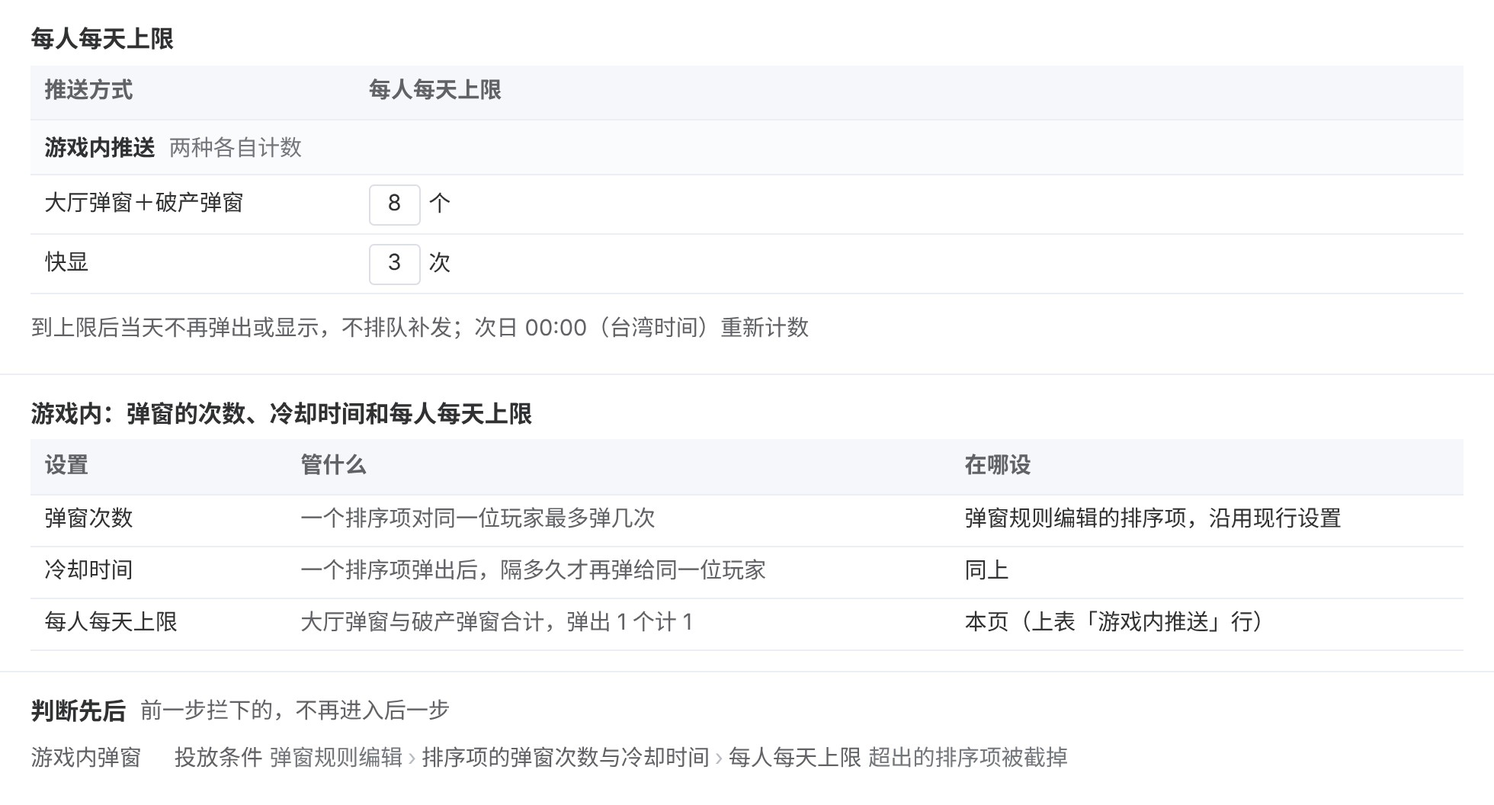
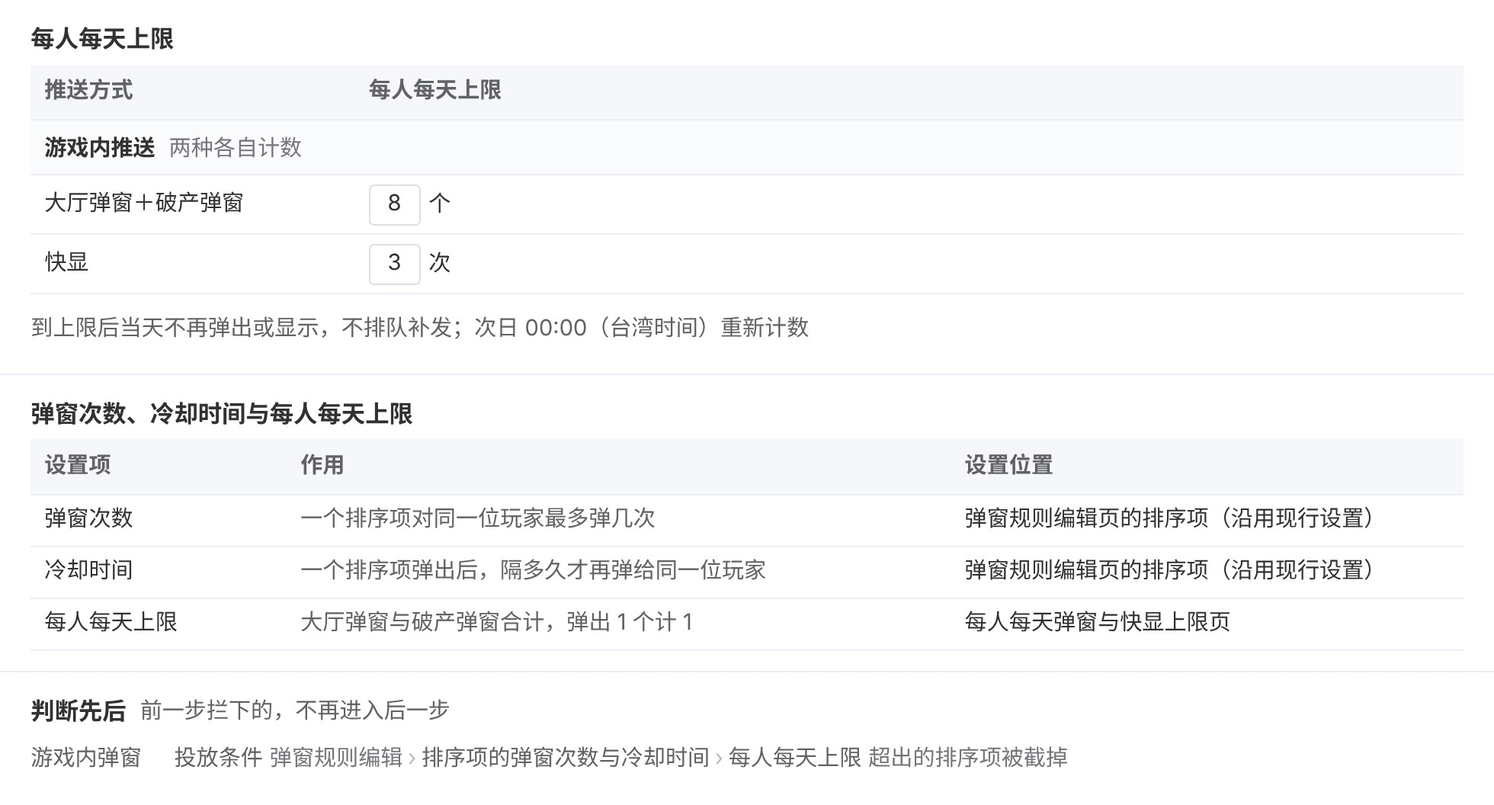
需求评审版审读后修改进行中：截图措辞与编号
Claude-Session: https://claude.ai/code/session_01JtVy4xu4oTwDzwihYuUW45

diff --git a/弹窗标签推送系统/推送系统后台集成需求/需求评审版源.html b/弹窗标签推送系统/推送系统后台集成需求/需求评审版源.html
@@ -77,12 +77,12 @@ table.et td:nth-child(1){white-space:nowrap}
   <div class="grp g1">第一部分　游戏外推送<span>第 1–4 页</span></div>
   <a href="#p1">1 按玩家分群推送</a>
   <a href="#p2">2 按玩家行为自动推送</a>
-  <a href="#p3">3 每人每天上限与勿扰</a>
-  <a href="#p4">4 短信</a>
+  <a href="#p3">3 短信</a>
+  <a href="#p4">4 每人每天上限与勿扰</a>
   <div class="grp g2">第二部分　游戏内推送<span>第 5–7 页</span></div>
   <a href="#p5">5 按玩家分群配置弹窗</a>
-  <a href="#p6">6 每人每天弹窗与快显上限</a>
-  <a href="#p7">7 快显</a>
+  <a href="#p6">6 快显</a>
+  <a href="#p7">7 每人每天弹窗与快显上限</a>
   <div class="grp g3">第三部分　数据<span>第 8–11 页</span></div>
   <a href="#p8">8 数据概览</a>
   <a href="#p9">9 数据明细</a>
@@ -136,7 +136,7 @@ table.et td:nth-child(1){white-space:nowrap}
     <tr><td>选多个群组时取并集：满足任一即发送，重叠的玩家只收 1 条。</td></tr>
     <tr><td>排除群组：<br>固定排除，不能移出：黑名单、机器人与测试账号、敏感状态账号（停权、自我限制、注销处理中）<br>默认排除，运营可移出：VIP 名单<br>运营还可再加其他群组</td></tr>
     <tr><td>能收到推送的玩家：<br>推播：装了 App 且开启通知的玩家<br>短信：有有效手机号且未退订的玩家<br>同一设备或同一手机号只发 1 条</td></tr>
-    <tr><td>预计发出：群组人数扣掉排除群组得到受众，再依次扣掉收不到推送的玩家和被每人每天上限拦下的人（上限见第 3 页）；确认前逐层显示。</td></tr>
+    <tr><td>预计发出：群组人数扣掉排除群组得到受众，再扣掉收不到推送的玩家；立即发送时再扣掉此刻已收满每人每天上限的人（上限见第 4 页），定时发送不预估这一项，到发送时按当时扣除；确认前逐层显示。</td></tr>
   </table>
   <h4 class="rg">发送时间</h4>
   <table class="rule">
@@ -145,7 +145,8 @@ table.et td:nth-child(1){white-space:nowrap}
   </table>
   <h4 class="rg">所属活动</h4>
   <table class="rule">
-    <tr><td>推播、短信、快显和弹窗规则新建时都要选所属活动，或选「不属于活动」；所属活动和点击跳转的页面从后台现有的活动、礼包里选。</td></tr>
+    <tr><td>推播、短信、快显新建时选所属活动，或选「不属于活动」；所属活动和点击跳转的页面从后台现有的活动、礼包里选。</td></tr>
+    <tr><td>弹窗规则不选所属活动，规则里的每个排序项对应一个活动或礼包，同样从现有的活动、礼包里选（见第 5 页）。</td></tr>
   </table>
   <h4 class="rg">防错</h4>
   <table class="rule">
@@ -187,7 +188,7 @@ table.et td:nth-child(1){white-space:nowrap}
     <tr><td>顺延的提醒到勿扰结束时，重新判断触发条件和每人每天上限。<span class="why">按行为的提醒到勿扰结束时可能已失效，如礼包已过期。</span></td></tr>
     <tr><td>玩家在线时照发或不发，每条推送单独选。</td></tr>
     <tr><td>默认玩家升级、完成任务、通行证升级不发，限时加码礼包快到期、时间偏移照发；破产后未回到游戏只在玩家离线时触发。</td></tr>
-    <tr><td>触发时玩家在线且选了不发的，这次收不到推播；同一事件改由游戏内显示，用同一触发行为的快显，或同一活动的弹窗规则；两者都没有时，系统在保存时提示运营。</td></tr>
+    <tr><td>选了在线不发的，触发时在线的玩家这次收不到推播；需要在游戏里提示的，运营另配同一触发行为的快显（第 6 页）。</td></tr>
   </table>
     </div>
   </details>
@@ -196,10 +197,39 @@ table.et td:nth-child(1){white-space:nowrap}
 <!-- 3 -->
 <section class="pg pt1" id="p3">
   <div class="kick"><span class="pchip">第一部分　游戏外推送</span><span class="pos">第 3 页 / 共 13 页</span></div>
+  <h2>短信</h2>
+
+  <div class="shots">
+    <figure><img src="需求评审版_图/16_短信.jpg" alt="新建短信" style="width:980px"><figcaption>新建短信：内文与则数、发送对象、确认前的预计人数与则数</figcaption></figure>
+  </div>
+
+  <details class="rules">
+    <summary><span class="rt">业务规则</span><span class="rgs">内容与计费 · 发送</span></summary>
+    <div class="rbody">
+  <h4 class="rg">内容与计费</h4>
+  <table class="rule">
+    <tr><td>内文先选消息类别（营销或服务通知）；输入时显示字数与则数，超出一则时提示；营销短信自动加品牌前缀【會員通知】和退订说明。</td></tr>
+    <tr><td>链接可选外部网页或游戏内页面；外部网页自动换成短链，统计点击次数。</td></tr>
+    <tr><td>按则计费：70 字以内计 1 则；超过 70 字时每 67 字计 1 则。</td></tr>
+    <tr><td>品牌前缀和退订说明计入字数。</td></tr>
+  </table>
+  <h4 class="rg">发送</h4>
+  <table class="rule">
+    <tr><td>发送对象、排除群组的选法同推播（第 1 页）；能收到短信的是有有效手机号且未退订的玩家。</td></tr>
+    <tr><td>发送时间：立即、定时或按行为，填法同推播；勿扰时段与每人每天上限见第 4 页。</td></tr>
+    <tr><td>确认前显示能收到短信的人数、预计发出人数（上限拦下的算法同推播，见第 1 页）、每条计几则和共计几则。</td></tr>
+  </table>
+    </div>
+  </details>
+</section>
+
+<!-- 4 -->
+<section class="pg pt1" id="p4">
+  <div class="kick"><span class="pchip">第一部分　游戏外推送</span><span class="pos">第 4 页 / 共 13 页</span></div>
   <h2>每人每天上限与勿扰</h2>
 
   <div class="shots">
-    <figure><img src="需求评审版_图/04_上限勿扰.jpg" alt="每人每天上限与勿扰设置" style="width:980px"><figcaption>每人每天上限与勿扰设置页</figcaption></figure>
+    <figure><img src="需求评审版_图/04_上限勿扰.jpg" alt="每人每天上限与勿扰设置" style="width:980px"><figcaption>消息类别、推播与短信的每人每天上限、勿扰时段的设置</figcaption></figure>
   </div>
 
   <details class="rules">
@@ -222,35 +252,6 @@ table.et td:nth-child(1){white-space:nowrap}
   <table class="rule">
     <tr><td>单条推送可勾选「不受每人每天上限」或「不受勿扰」，须填原因。</td></tr>
     <tr><td>运营把含促销字样（禮包、優惠、加碼、儲值）的内容发为服务通知时，须填写归为服务通知的原因。</td></tr>
-  </table>
-    </div>
-  </details>
-</section>
-
-<!-- 4 -->
-<section class="pg pt1" id="p4">
-  <div class="kick"><span class="pchip">第一部分　游戏外推送</span><span class="pos">第 4 页 / 共 13 页</span></div>
-  <h2>短信</h2>
-
-  <div class="shots">
-    <figure><img src="需求评审版_图/16_短信.jpg" alt="新建短信" style="width:980px"><figcaption>新建短信</figcaption></figure>
-  </div>
-
-  <details class="rules">
-    <summary><span class="rt">业务规则</span><span class="rgs">内容与计费 · 发送</span></summary>
-    <div class="rbody">
-  <h4 class="rg">内容与计费</h4>
-  <table class="rule">
-    <tr><td>内文先选消息类别（营销或服务通知）；输入时显示字数与则数，超出一则时提示；营销短信自动加品牌前缀【會員通知】和退订说明。</td></tr>
-    <tr><td>链接可选外部网页或游戏内页面；外部网页自动换成短链，统计点击次数。</td></tr>
-    <tr><td>按则计费：70 字以内计 1 则；超过 70 字时每 67 字计 1 则。</td></tr>
-    <tr><td>品牌前缀和退订说明计入字数。</td></tr>
-  </table>
-  <h4 class="rg">发送</h4>
-  <table class="rule">
-    <tr><td>发送对象、排除群组的选法同推播（第 1 页）；能收到短信的是有有效手机号且未退订的玩家。</td></tr>
-    <tr><td>发送时间：立即、定时或按行为，填法同推播；勿扰时段与每人每天上限见第 3 页。</td></tr>
-    <tr><td>确认前显示能收到短信的人数、上限拦下、预计发出人数、每条计几则和共计几则。</td></tr>
   </table>
     </div>
   </details>
@@ -316,10 +317,36 @@ table.et td:nth-child(1){white-space:nowrap}
 <!-- 6 -->
 <section class="pg pt2" id="p6">
   <div class="kick"><span class="pchip">第二部分　游戏内推送</span><span class="pos">第 6 页 / 共 13 页</span></div>
+  <h2>快显</h2>
+
+  <div class="shots">
+    <figure><img src="需求评审版_图/17_快显.jpg" alt="新建快显" style="width:980px"><figcaption>新建快显：横幅内容、发送对象、按行为发送</figcaption></figure>
+  </div>
+
+  <details class="rules">
+    <summary><span class="rt">业务规则</span><span class="rgs">内容与对象 · 发送时间</span></summary>
+    <div class="rbody">
+  <h4 class="rg">内容与对象</h4>
+  <table class="rule">
+    <tr><td>快显是游戏界面里的即时横幅，如通行证升级提示；可设横幅文字、显示位置、停留秒数、点击跳转的页面。</td></tr>
+    <tr><td>发送对象和排除群组的选法同推播（第 1 页），VIP 名单同样默认排除、可移出。</td></tr>
+    <tr><td>只显示给在线玩家：发送时不在线的玩家收不到，上线后也不补显。</td></tr>
+  </table>
+  <h4 class="rg">发送时间</h4>
+  <table class="rule">
+    <tr><td>立即、定时或按行为；按行为的触发行为与提醒间隔同第 2 页。</td></tr>
+  </table>
+    </div>
+  </details>
+</section>
+
+<!-- 7 -->
+<section class="pg pt2" id="p7">
+  <div class="kick"><span class="pchip">第二部分　游戏内推送</span><span class="pos">第 7 页 / 共 13 页</span></div>
   <h2>每人每天弹窗与快显上限</h2>
 
   <div class="shots">
-    <figure><img src="需求评审版_图/12_弹窗上限.jpg" alt="每人每天弹窗与快显上限设置" style="width:980px"><figcaption>每人每天弹窗与快显上限设置页</figcaption></figure>
+    <figure><img src="需求评审版_图/12_弹窗上限.jpg" alt="每人每天弹窗与快显上限设置" style="width:980px"><figcaption>弹窗、快显各自的上限，以及弹窗次数、冷却时间与上限的判断顺序</figcaption></figure>
   </div>
 
   <details class="rules">
@@ -338,32 +365,6 @@ table.et td:nth-child(1){white-space:nowrap}
   <h4 class="rg">例外</h4>
   <table class="rule">
     <tr><td>排序项可勾选「不受每人每天弹窗上限」，再选仍计入或不计入当天个数，并填原因。</td></tr>
-  </table>
-    </div>
-  </details>
-</section>
-
-<!-- 7 -->
-<section class="pg pt2" id="p7">
-  <div class="kick"><span class="pchip">第二部分　游戏内推送</span><span class="pos">第 7 页 / 共 13 页</span></div>
-  <h2>快显</h2>
-
-  <div class="shots">
-    <figure><img src="需求评审版_图/17_快显.jpg" alt="新建快显" style="width:980px"><figcaption>新建快显</figcaption></figure>
-  </div>
-
-  <details class="rules">
-    <summary><span class="rt">业务规则</span><span class="rgs">内容与对象 · 发送时间</span></summary>
-    <div class="rbody">
-  <h4 class="rg">内容与对象</h4>
-  <table class="rule">
-    <tr><td>快显是游戏界面里的即时横幅，如通行证升级提示；可设横幅文字、显示位置、停留秒数、点击跳转的页面。</td></tr>
-    <tr><td>发送对象和排除群组的选法同推播（第 1 页），VIP 名单同样默认排除、可移出。</td></tr>
-    <tr><td>只显示给在线玩家：发送时不在线的玩家收不到，上线后也不补显。</td></tr>
-  </table>
-  <h4 class="rg">发送时间</h4>
-  <table class="rule">
-    <tr><td>立即、定时或按行为；按行为的触发行为与提醒间隔同第 2 页。</td></tr>
   </table>
     </div>
   </details>

diff --git a/弹窗标签推送系统/推送系统后台集成需求/需求评审版_原型/11_保存确认.html b/弹窗标签推送系统/推送系统后台集成需求/需求评审版_原型/11_保存确认.html
@@ -12,6 +12,7 @@ body{font-family:"Inter","Noto Sans CJK SC","PingFang SC","Microsoft YaHei",sans
 .shot .win{padding:0;border:0;border-radius:0;background:#fff;box-shadow:none}
 .shot .fig{width:auto;border:0;border-radius:0}
 .tc{font-family:"Inter","Noto Sans CJK TC","PingFang TC",sans-serif}
+.sub2{display:block;font-size:12px;color:#73767A;line-height:17px}
 </style>
 </head>
 <body>
@@ -19,24 +20,24 @@ body{font-family:"Inter","Noto Sans CJK SC","PingFang SC","Microsoft YaHei",sans
   <div class="sec" style="padding:14px 18px 18px">
     <div class="mute" style="margin-bottom:8px">新增活动类规则 · 对象潜在付费 · 优先级 4</div>
     <div style="display:flex;gap:10px;align-items:flex-start">
-      <div class="estb" style="width:385px;flex:none;padding:10px 14px">
+      <div class="estb" style="width:410px;flex:none;padding:10px 14px">
         <div style="color:var(--ink2)">潜在付费 4,860 人，其中 2,350 人先弹更高优先级的规则</div>
         <div style="font-size:16px;font-weight:700;color:var(--ink);margin:2px 0 4px">预计 2,510 人</div>
         <table class="tb" style="margin-top:4px">
           <tr><th>重叠的上架规则</th><th style="text-align:right">人数</th><th style="white-space:nowrap">这些人弹</th></tr>
-          <tr><td>12 活动类·新增玩家<span class="mute">　优先级 1</span></td><td style="text-align:right">610</td><td style="white-space:nowrap">规则 12</td></tr>
-          <tr><td>13 活动类·回流<span class="mute">　优先级 2</span></td><td style="text-align:right">1,320</td><td style="white-space:nowrap">规则 13</td></tr>
-          <tr><td>14 活动类·潜在流失<span class="mute">　优先级 3</span></td><td style="text-align:right">420</td><td style="white-space:nowrap">规则 14</td></tr>
-          <tr><td>5 活动类·其余<span class="mute">　优先级 4 → 5</span></td><td style="text-align:right">2,510</td><td style="white-space:nowrap;font-weight:600">本规则</td></tr>
+          <tr><td style="white-space:nowrap">弹窗规则 12<span class="sub2">活动类·新增玩家　优先级 1</span></td><td style="text-align:right">610</td><td style="white-space:nowrap">弹窗规则 12</td></tr>
+          <tr><td style="white-space:nowrap">弹窗规则 13<span class="sub2">活动类·回流　优先级 2</span></td><td style="text-align:right">1,320</td><td style="white-space:nowrap">弹窗规则 13</td></tr>
+          <tr><td style="white-space:nowrap">弹窗规则 14<span class="sub2">活动类·潜在流失　优先级 3</span></td><td style="text-align:right">420</td><td style="white-space:nowrap">弹窗规则 14</td></tr>
+          <tr><td style="white-space:nowrap">弹窗规则 5<span class="sub2">活动类·其余　优先级 4 → 5</span></td><td style="text-align:right">2,510</td><td style="white-space:nowrap;font-weight:600">本规则</td></tr>
         </table>
       </div>
-      <div class="ovarr" style="width:70px;margin-top:92px;white-space:nowrap"><span>→</span>点「保存<br>并上架」</div>
+      <div class="ovarr" style="width:60px;margin-top:92px;white-space:nowrap"><span>→</span>点「保存<br>并上架」</div>
       <div class="dlg" style="flex:1;min-width:0">
         <div class="t">保存并上架新增规则「活动类·潜在付费」？</div>
         <table class="et" style="margin:2px 0 6px">
-          <colgroup><col style="width:126px"><col></colgroup>
+          <colgroup><col style="width:118px"><col></colgroup>
           <tr><td class="l mute" style="vertical-align:top">改了什么</td><td class="l">新增活动类弹窗，对象潜在付费，优先级 4</td></tr>
-          <tr><td class="l mute" style="vertical-align:top">受影响的其他规则</td><td class="l">规则 5：优先级 4 → 5，<span class="nw">预计少 2,510 人</span><br>规则 6：优先级 5 → 6</td></tr>
+          <tr><td class="l mute" style="vertical-align:top">受影响的其他规则</td><td class="l">弹窗规则 5：优先级 4 → 5，<span class="nw">预计少 2,510 人</span><br>弹窗规则 6：优先级 5 → 6</td></tr>
           <tr><td class="l mute" style="vertical-align:top">预计人数</td><td class="l">2,510 人；与 4 条规则重叠</td></tr>
         </table>
         <div class="ft"><span class="btn2 sm" style="margin-right:6px">返回修改</span><span class="btn2 p sm">确认保存并上架</span></div>

diff --git a/弹窗标签推送系统/推送系统后台集成需求/需求评审版_原型/12_弹窗上限.html b/弹窗标签推送系统/推送系统后台集成需求/需求评审版_原型/12_弹窗上限.html
@@ -28,13 +28,13 @@ body{font-family:"Inter","Noto Sans CJK SC","PingFang SC","Microsoft YaHei",sans
     <div class="f" style="color:var(--ink2);margin-top:6px">到上限后当天不再弹出或显示，不排队补发；次日 00:00（台湾时间）重新计数</div>
   </div>
   <div class="sec" style="padding:12px 18px 12px">
-    <div class="sh" style="height:auto;min-height:22px;flex-wrap:wrap;row-gap:2px">游戏内：弹窗的次数、冷却时间和每人每天上限</div>
+    <div class="sh" style="height:auto;min-height:22px;flex-wrap:wrap;row-gap:2px">弹窗次数、冷却时间与每人每天上限</div>
     <table class="tb" style="margin-top:2px">
       <colgroup><col style="width:150px"><col><col style="width:300px"></colgroup>
-      <tr><th>设置</th><th>管什么</th><th>在哪设</th></tr>
-      <tr><td>弹窗次数</td><td class="m">一个排序项对同一位玩家最多弹几次</td><td>弹窗规则编辑的排序项，沿用现行设置</td></tr>
-      <tr><td>冷却时间</td><td class="m">一个排序项弹出后，隔多久才再弹给同一位玩家</td><td>同上</td></tr>
-      <tr><td>每人每天上限</td><td class="m">大厅弹窗与破产弹窗合计，弹出 1 个计 1</td><td>本页（上表「游戏内推送」行）</td></tr>
+      <tr><th>设置项</th><th>作用</th><th>设置位置</th></tr>
+      <tr><td>弹窗次数</td><td class="m">一个排序项对同一位玩家最多弹几次</td><td>弹窗规则编辑页的排序项（沿用现行设置）</td></tr>
+      <tr><td>冷却时间</td><td class="m">一个排序项弹出后，隔多久才再弹给同一位玩家</td><td>弹窗规则编辑页的排序项（沿用现行设置）</td></tr>
+      <tr><td>每人每天上限</td><td class="m">大厅弹窗与破产弹窗合计，弹出 1 个计 1</td><td>每人每天弹窗与快显上限页</td></tr>
     </table>
   </div>
   <div class="sec" style="padding:12px 18px 14px">

diff --git a/弹窗标签推送系统/推送系统后台集成需求/需求评审版_原型/03_按行为.html b/弹窗标签推送系统/推送系统后台集成需求/需求评审版_原型/03_按行为.html
@@ -25,7 +25,7 @@ body{font-family:"Inter","Noto Sans CJK SC","PingFang SC","Microsoft YaHei",sans
         <div class="f"><label style="width:78px">生效期间</label><span class="in" style="width:104px">2026-10-02</span><span style="margin:0 8px">至</span><span class="in ph" style="width:104px">结束（选填）</span><span class="mute" style="margin-left:8px">不填则长期运行</span></div>
         <div class="f"><label style="width:78px">提醒间隔</label>同一玩家两次提醒至少间隔<span class="num">24</span>小时</div>
         <div class="f"><label style="width:78px">勿扰时段</label>00:00–08:00　命中时<span class="in" style="margin-left:8px;width:110px">放弃发送<span class="dn">⌵</span></span></div>
-        <div class="f"><label style="width:78px">玩家在线</label><span class="in" style="width:110px">照发<span class="dn">⌵</span></span><span class="mute" style="margin-left:8px">另一选项：不发（由游戏内承接）</span></div>
+        <div class="f"><label style="width:78px">玩家在线</label><span class="in" style="width:110px">照发<span class="dn">⌵</span></span><span class="mute" style="margin-left:8px">另一选项：不发（可另配同一触发行为的快显）</span></div>
       </div>
       <div style="flex:none;width:340px">
         <div class="ddf" style="margin:0;width:340px">

diff --git a/弹窗标签推送系统/推送系统后台集成需求/需求评审版_原型/01_群组交集.html b/弹窗标签推送系统/推送系统后台集成需求/需求评审版_原型/01_群组交集.html
@@ -22,7 +22,7 @@ body{font-family:"Inter","Noto Sans CJK SC","PingFang SC","Microsoft YaHei",sans
       <div class="ef"><span class="ein v" style="width:52px">在<span class="dn">⌵</span></span><span class="ein v" style="width:64px;margin-left:8px">群组<span class="dn">⌵</span></span><span class="ein v" style="width:200px;margin-left:8px">回流<span class="dn">⌵</span></span><span style="margin-left:auto;color:#73767A">16,564</span></div>
       <div class="ef"><span class="ein v" style="width:52px">在<span class="dn">⌵</span></span><span class="ein v" style="width:64px;margin-left:8px">群组<span class="dn">⌵</span></span><span class="ein v" style="width:200px;margin-left:8px">潜在付费<span class="dn">⌵</span></span><span style="margin-left:auto;color:#73767A">4,860</span></div>
     </div>
-    <div class="ef" style="min-height:30px">符合条件<b style="color:#303133;font-size:14px;margin-left:10px">1,320 人</b><span style="color:#73767A;margin-left:10px">与回流、潜在付费同批次</span></div>
+    <div class="ef" style="min-height:30px">符合条件<b style="color:#303133;font-size:14px;margin-left:10px">1,320 人</b><span style="color:#73767A;margin-left:10px">人数截至 10/12 15:25</span></div>
   </div>
 </div></div></div></div>
 </body>

diff --git a/弹窗标签推送系统/推送系统后台集成需求/需求评审版_原型/19_玩家查询.html b/弹窗标签推送系统/推送系统后台集成需求/需求评审版_原型/19_玩家查询.html
@@ -21,7 +21,7 @@ table.et td.l, table.et th.l{padding-left:8px}
   <div class="sec" style="padding:12px 18px 14px">
     <div style="display:flex;gap:8px;align-items:center"><span class="ein v" style="width:190px">180820055306761</span><span class="ein" style="width:170px">会员昵称</span><span class="ein" style="width:170px">手机号码</span><span class="ebtn b">查询</span></div>
     <div style="display:flex;flex-wrap:wrap;gap:6px 28px;margin-top:10px;background:#DCDCDA;padding:9px 12px;color:#303133">
-      <span>会员编号: 180820055306761</span><span>会员昵称: 我来称王260134709</span><span>手机号码: 0912***678</span><span>标签名称: 潜在流失·实验组</span><span>标签状态: 启用</span><span>最后登录: 10/12 14:05</span><span>平台与版本: Android · 3.8.2</span><span>在线状态: 当前在线</span>
+      <span>会员编号: 180820055306761</span><span>会员昵称: 我来称王260134709</span><span>手机号码: 0912***678</span><span>标签群组: 潜在流失·实验组</span><span>标签群组状态: 启用</span><span>最后登录: 10/12 14:05</span><span>平台与版本: Android · 3.8.2</span><span>在线状态: 当前在线</span>
     </div>
   </div>
   <div class="sec" style="padding:10px 18px 12px">

diff --git a/弹窗标签推送系统/推送系统后台集成需求/需求评审版_原型/02_新建推播.html b/弹窗标签推送系统/推送系统后台集成需求/需求评审版_原型/02_新建推播.html
@@ -28,7 +28,7 @@ body{font-family:"Inter","Noto Sans CJK SC","PingFang SC","Microsoft YaHei",sans
       <div class="r">
         <div class="f" style="height:auto;align-items:flex-start;padding-top:2px"><label style="width:auto;padding-right:10px;line-height:22px;white-space:nowrap">排除群组</label><span style="display:flex;flex-wrap:wrap;gap:6px 0"><span class="tg nw">VIP 名单</span><span class="tg fix nw">黑名单</span><span class="tg fix nw">机器人与测试账号</span><span class="tg fix nw">敏感状态账号</span></span></div>
         <div class="estb" style="margin-top:10px;padding:10px 14px">
-          <div class="l">预计人数<span class="mute" style="margin-left:8px">群组批次 10/12 15:25</span></div>
+          <div class="l">预计人数<span class="mute" style="margin-left:8px">人数截至 10/12 15:25</span></div>
           <div class="ln"><span>群组人数</span><b>7,880 人</b></div>
           <div style="padding-left:12px;color:var(--mute);line-height:20px">排除 30：VIP 名单 12 · 黑名单 3 · 机器人与测试账号 7 · 敏感状态账号 8</div>
           <div class="ln"><span>受众（排除后）</span><b>7,850 人</b></div>

diff --git a/弹窗标签推送系统/推送系统后台集成需求/需求评审版_原型/04_上限勿扰.html b/弹窗标签推送系统/推送系统后台集成需求/需求评审版_原型/04_上限勿扰.html
@@ -22,7 +22,7 @@ body{font-family:"Inter","Noto Sans CJK SC","PingFang SC","Microsoft YaHei",sans
     <table class="tb" style="margin-top:2px">
       <colgroup><col style="width:190px"><col><col></colgroup>
       <tr><th>规则项</th><th>营销（默认）</th><th>服务通知</th></tr>
-      <tr><td>适用内容</td><td>全部推送</td><td>补偿到账、维护、账号安全、绑定结果</td></tr>
+      <tr><td>包括的内容</td><td>除服务通知外的全部推送</td><td>补偿到账、维护、账号安全、绑定结果</td></tr>
       <tr><td>受每人每天上限</td><td>受</td><td>不受</td></tr>
       <tr><td>计入当天条数</td><td>计入</td><td><span class="in" style="width:84px">不计入<span class="dn">⌵</span></span></td></tr>
       <tr><td>受勿扰</td><td>受（按单条顺延或放弃）</td><td><span class="in" style="width:84px">顺延<span class="dn">⌵</span></span></td></tr>

diff --git a/弹窗标签推送系统/分析/需求评审版_改版记录.md b/弹窗标签推送系统/分析/需求评审版_改版记录.md
@@ -14,6 +14,16 @@
 - 10 个源文件现在 grep「项目」「编码」「目录」「ACT_」「GIFT_」均为 0（03 的「礼包」是礼包名称，不是项目）。
 - 两张重截后用 Read 看过，文字清楚，无截断重叠。`00_后台首页.html` 里还有「项目目录」，是 B 名下的文件，已在回报里提醒。
 
+
+第二轮（审读 10/20 晚；只动 01、02、03、04、11、12、19 的源文件与 jpg）：
+- 01、02：「同批次」「群组批次」改为「人数截至 10/12 15:25」。
+- 03：「另一选项：不发（由游戏内承接）」→「另一选项：不发（可另配同一触发行为的快显）」；图里本来没有「在线不发时保存检查／提示」一类字样。
+- 04：营销列「适用内容：全部推送」→ 行名「包括的内容」、营销列「除服务通知外的全部推送」；上方已分写「消息类别　营销、服务通知两种」与「适用推送方式　推播　短信」。
+- 12：中段表头「设置｜管什么｜在哪设」→「设置项｜作用｜设置位置」；格内「同上」「本页（上表「游戏内推送」行）」改成直接写位置：弹窗次数、冷却时间写「弹窗规则编辑页的排序项（沿用现行设置）」，每人每天上限写「每人每天弹窗与快显上限页」；中段标题「游戏内：弹窗的次数、冷却时间和每人每天上限」→「弹窗次数、冷却时间与每人每天上限」。
+- 16、17：立即、定时、按行为的字段本来就都叫「发送时间」，没改。
+- 19：「标签名称」→「标签群组」，「标签状态」→「标签群组状态」。
+- 编号：11 里「规则 12」等统一写成「弹窗规则 12」「弹窗规则 5」；重叠表第一列改成两行（第一行弹窗规则编号，第二行规则名与优先级），「这些人弹」一列写「弹窗规则 12」等，左卡宽改 410，右框相应变窄；其余图里没有推送、弹窗规则、快显编号。
+
 ### B 图表
 
 按同一任务说明第四段甲、丙与第五段 B 行（改 `_scripts/an_评审版图表.py`、`需求评审版_原型/_图表.css`，重新生成并渲染）：
